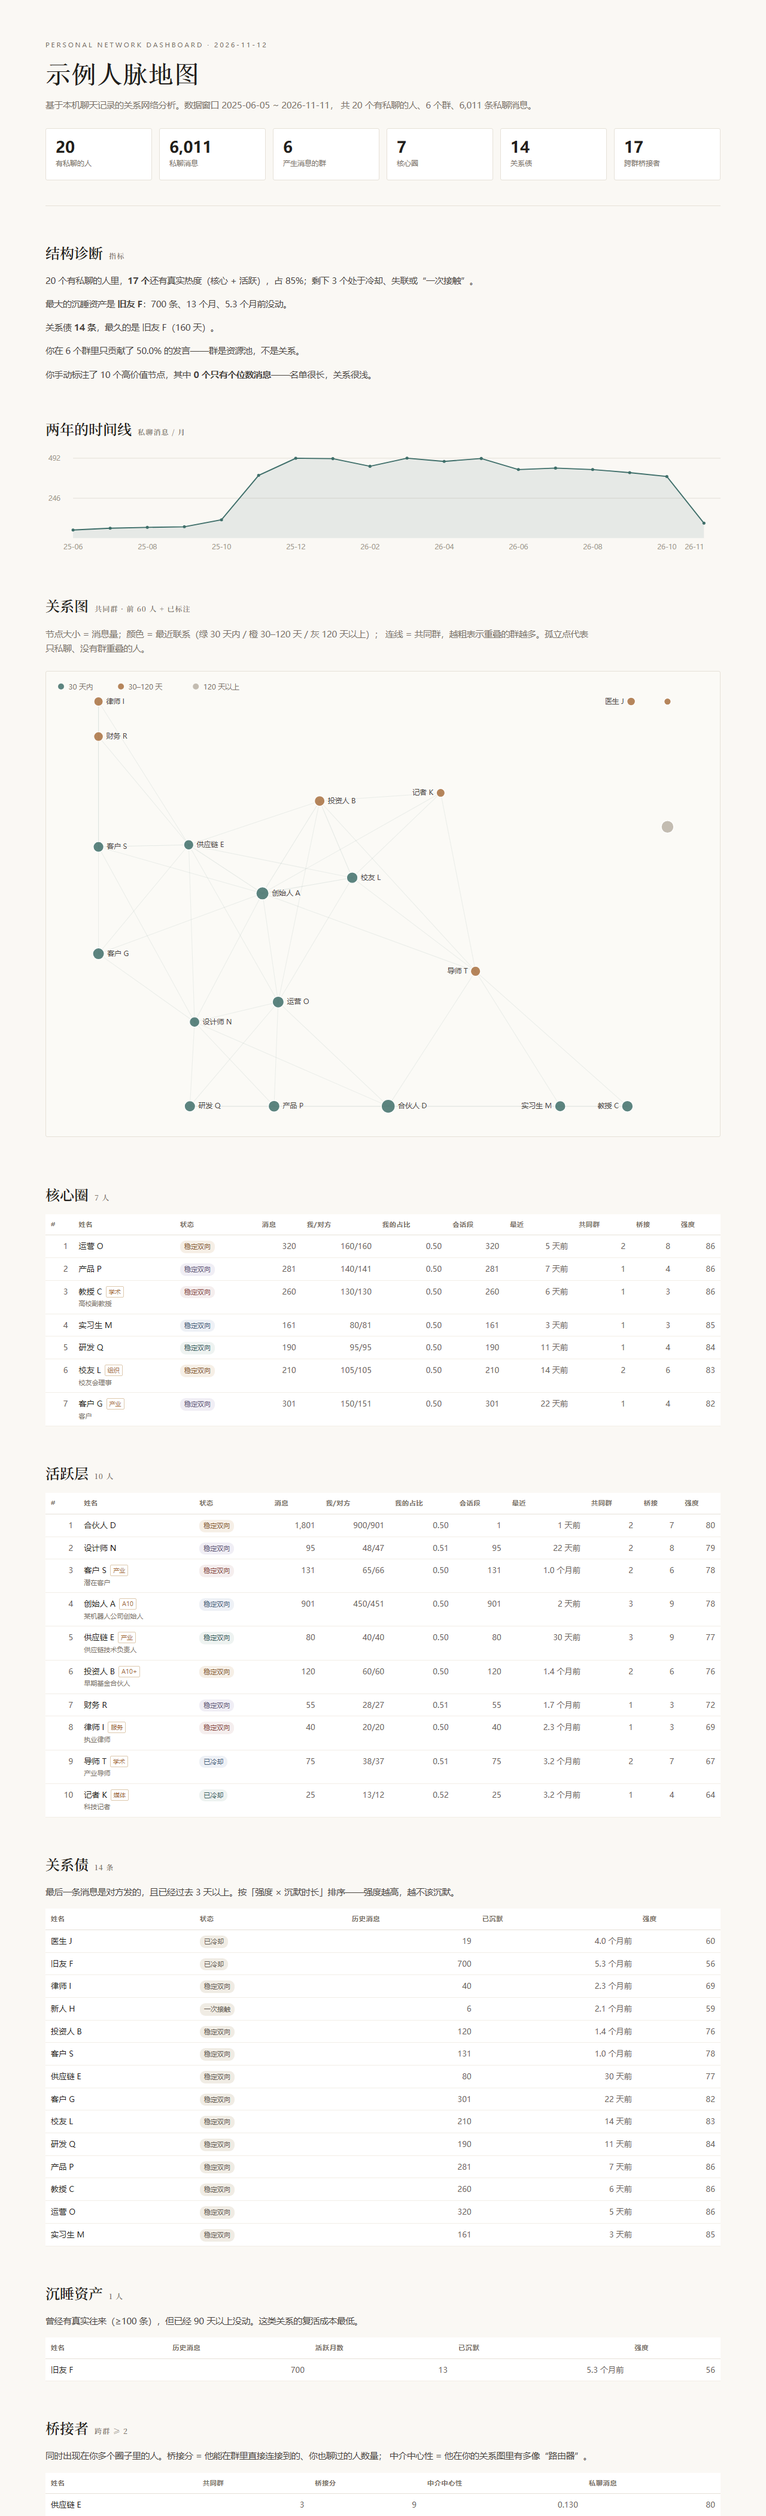
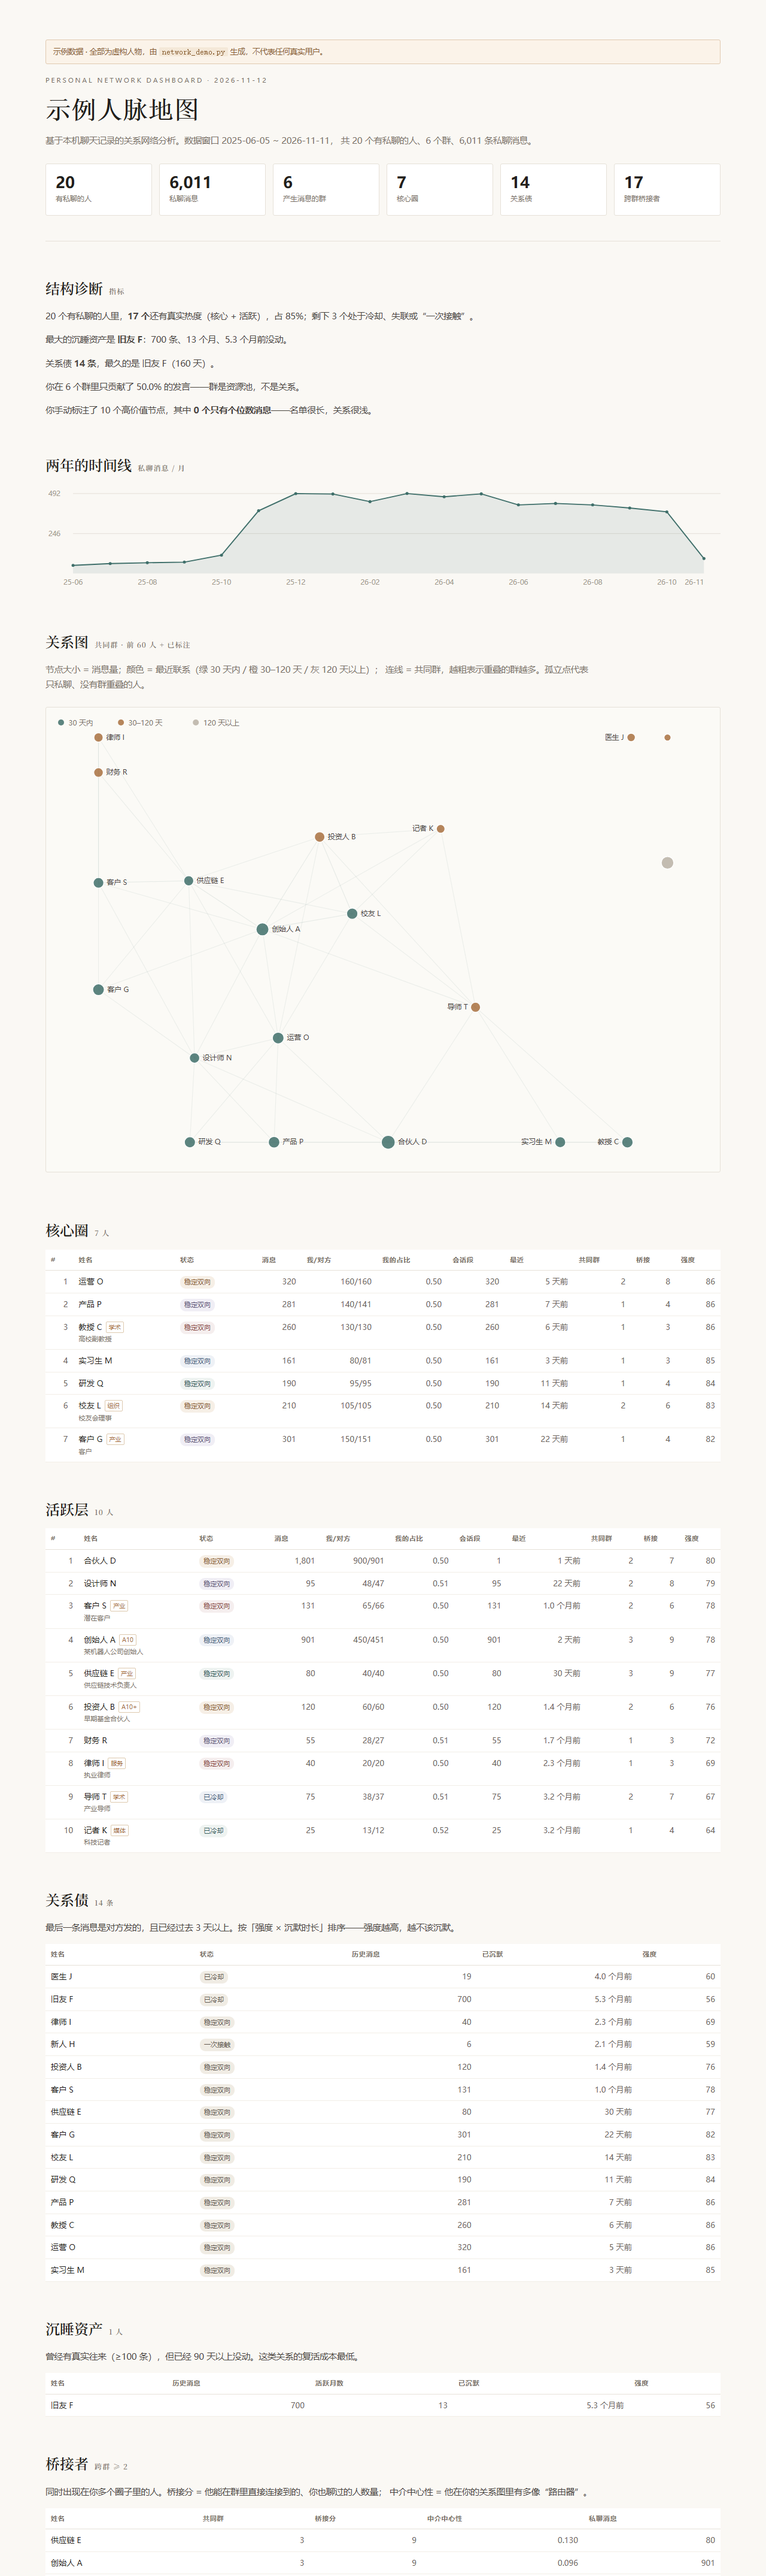
docs: mark demo dashboard as synthetic data
- add a visible demo watermark to the dashboard\n- clarify that the 6,011 messages are generated, not a real report\n- cover the banner with a test

diff --git a/scripts/network_report.py b/scripts/network_report.py
@@ -419,6 +419,9 @@ footer{margin-top:70px;padding-top:20px;border-top:1px solid var(--line);font-si
 .rel p{margin:6px 0;font-size:13px}
 blockquote.q{margin:8px 0;padding:8px 12px;border-left:2px solid #c9b28e;background:#f7f3ea;font-size:12.5px;color:#5c554c}
 .ev{font-size:11.5px;color:var(--muted);margin:6px 0}
+.demo{margin:0 0 18px;padding:9px 12px;border:1px solid #e0c9b0;background:#fbf3e9;
+color:#8a6034;font-size:12.5px;border-radius:3px}
+.demo code{background:#f4e8d8;padding:1px 5px;border-radius:2px}
 .netmap{width:100%;height:auto;background:#fbfaf6;border:1px solid var(--line);border-radius:3px;margin:10px 0}
 .glabel{font-size:9.5px;fill:#4a453f}
 .glegend{font-size:9.5px;fill:#7b736a}
@@ -430,7 +433,7 @@ blockquote.q{margin:8px 0;padding:8px 12px;border-left:2px solid #c9b28e;backgro
 """
 
 
-def render(graph, title="人脉地图", analysis=None, intimacy=None, show_quotes=False):
+def render(graph, title="人脉地图", analysis=None, intimacy=None, show_quotes=False, demo=False):
     persons = [p for p in graph["persons"] if p.get("kind") == "person"]
     groups = graph.get("groups", [])
     stats = graph["stats"]
@@ -440,6 +443,9 @@ def render(graph, title="人脉地图", analysis=None, intimacy=None, show_quote
     analysis_html = render_analysis(analysis, quotes, show_quotes=show_quotes)
     intimacy_html = render_intimacy(intimacy)
     network_svg = network_viz.render_svg(graph)
+    demo_banner = ('<div class="demo">示例数据 · 全部为虚构人物，由 '
+                   '<code>network_demo.py</code> 生成，不代表任何真实用户。</div>'
+                   if demo else "")
     debt_html, debt_total = debt_rows(persons)
     dormant_html, dormant_total = dormant_rows(persons)
     bridges_html = bridge_rows(persons)
@@ -514,6 +520,7 @@ def render(graph, title="人脉地图", analysis=None, intimacy=None, show_quote
         "weekly_rows": weekly_rows(actions),
         "roster_rows": person_rows(persons),
         "analysis_html": analysis_html,
+        "demo_banner": demo_banner,
     }
 
     return f"""<!doctype html>
@@ -523,6 +530,7 @@ def render(graph, title="人脉地图", analysis=None, intimacy=None, show_quote
 <style>{CSS}</style></head><body><div class="wrap">
 
 <header>
+{context['demo_banner']}
 <div class="kicker">PERSONAL NETWORK DASHBOARD · {context['generated']}</div>
 <h1>{context['title']}</h1>
 <p class="sub">基于本机聊天记录的关系网络分析。数据窗口 {context['window']}，
@@ -606,6 +614,7 @@ def main():
     parser.add_argument("--analysis", help="可选：analysis.json，提供后生成证据版叙事")
     parser.add_argument("--intimacy", help="可选：intimacy.json；默认自动读取 graph 同目录")
     parser.add_argument("--show-quotes", action="store_true", help="报告中显示证据原文（默认隐藏）")
+    parser.add_argument("--demo", action="store_true", help="在报告顶部标注“示例数据”")
     args = parser.parse_args()
 
     graph = json.loads(Path(args.graph).read_text(encoding="utf-8"))
@@ -615,7 +624,7 @@ def main():
     intimacy_path = Path(args.intimacy) if args.intimacy else Path(args.graph).with_name("intimacy.json")
     intimacy = json.loads(intimacy_path.read_text(encoding="utf-8")) if intimacy_path.exists() else None
     rendered = render(graph, title=args.title, analysis=analysis,
-                      intimacy=intimacy, show_quotes=args.show_quotes)
+                      intimacy=intimacy, show_quotes=args.show_quotes, demo=args.demo)
     output = Path(args.output)
     output.parent.mkdir(parents=True, exist_ok=True)
     output.write_text(rendered, encoding="utf-8")

diff --git a/scripts/network_demo.py b/scripts/network_demo.py
@@ -158,7 +158,7 @@ def main():
         "--rooms", str(base / "rooms.json"), "--labels", str(base / "labels.json"),
         "--output", str(network), "--me", "wxid_me", "--now", str(NOW))
     run("network_report.py", "--graph", str(network / "graph.json"),
-        "--output", str(reports / "dashboard.html"), "--title", "示例人脉地图")
+        "--output", str(reports / "dashboard.html"), "--title", "示例人脉地图", "--demo")
     weekly = run("network_weekly.py", "--graph", str(network / "graph.json"), "--limit", "5")
 
     print(json.dumps({

diff --git a/tests/test_network_analysis.py b/tests/test_network_analysis.py
@@ -135,6 +135,11 @@ class AnalysisPipelineTests(unittest.TestCase):
         self.assertIn("<svg", first)
         self.assertIn("甲总", first)
 
+    def test_demo_banner_is_rendered(self):
+        html = render(self.graph, demo=True)
+        self.assertIn("示例数据", html)
+        self.assertIn("全部为虚构人物", html)
+
     def test_person_page_generates(self):
         out = self.root / "people"
         run("network_person.py", "--graph", str(self.output / "graph.json"),

diff --git a/README.md b/README.md
@@ -138,7 +138,10 @@ flowchart LR
 
 ### 2. 一张人脉仪表盘
 
-![人脉仪表盘](assets/preview-network.png)
+> 下图是 **示例数据**：20 个虚构人物、6 个群、6,011 条**合成**消息，由 `network_demo.py` 生成，
+> 不是任何真实用户的聊天记录。报告顶部也会带“示例数据”水印。
+
+![人脉仪表盘（示例数据，全部虚构）](assets/preview-network.png)
 
 - **14 个章节**：结论 → 结构诊断 → 时间线 → 关系图 → 亲密候选 → 核心圈 → 活跃层 → 关系债 → 沉睡资产 → 桥接者 → 群资源 → 覆盖度 → 本周行动 → 全量名册
 - 关系图用确定性力导向布局，节点大小 = 消息量，颜色 = 最近联系
@@ -182,7 +185,8 @@ python scripts/network_demo.py
 
 打开 `data/network_demo/reports/dashboard.html`，你会看到一份用虚构人物生成的完整仪表盘。
 
-> 合成数据：20 人、6 个群、6,011 条消息，覆盖核心圈 / 关系债 / 沉睡 / 桥接全部场景。
+> 合成数据：20 人、6 个群、6,011 条消息，全部由脚本按固定随机种子生成，**不含任何真实聊天记录**。
+> 报告顶部会显示“示例数据 · 全部为虚构人物”的水印；数据目录 `data/network_demo/` 也在 `.gitignore` 里。
 
 ---
 
